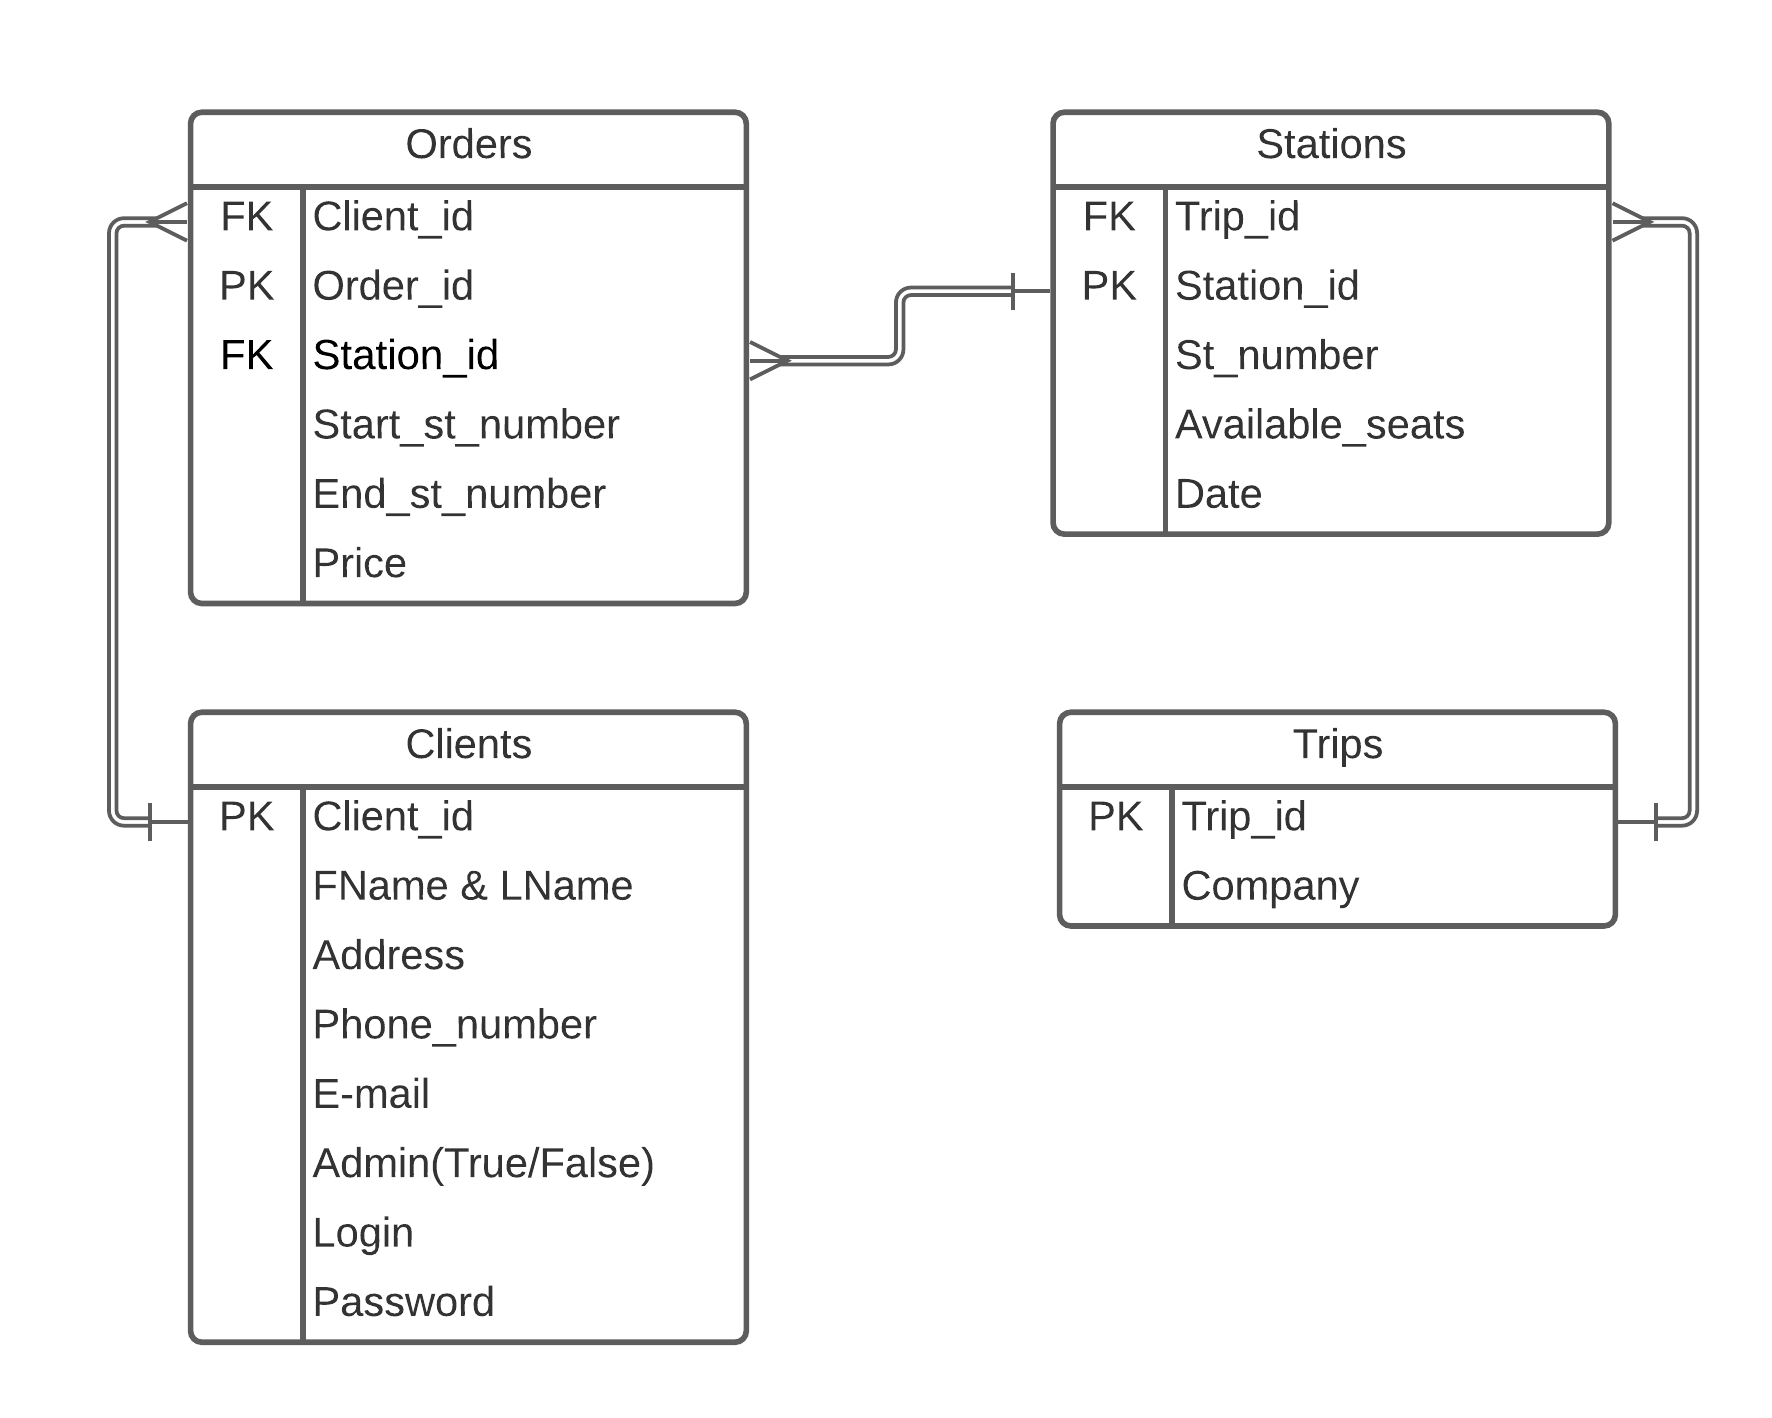
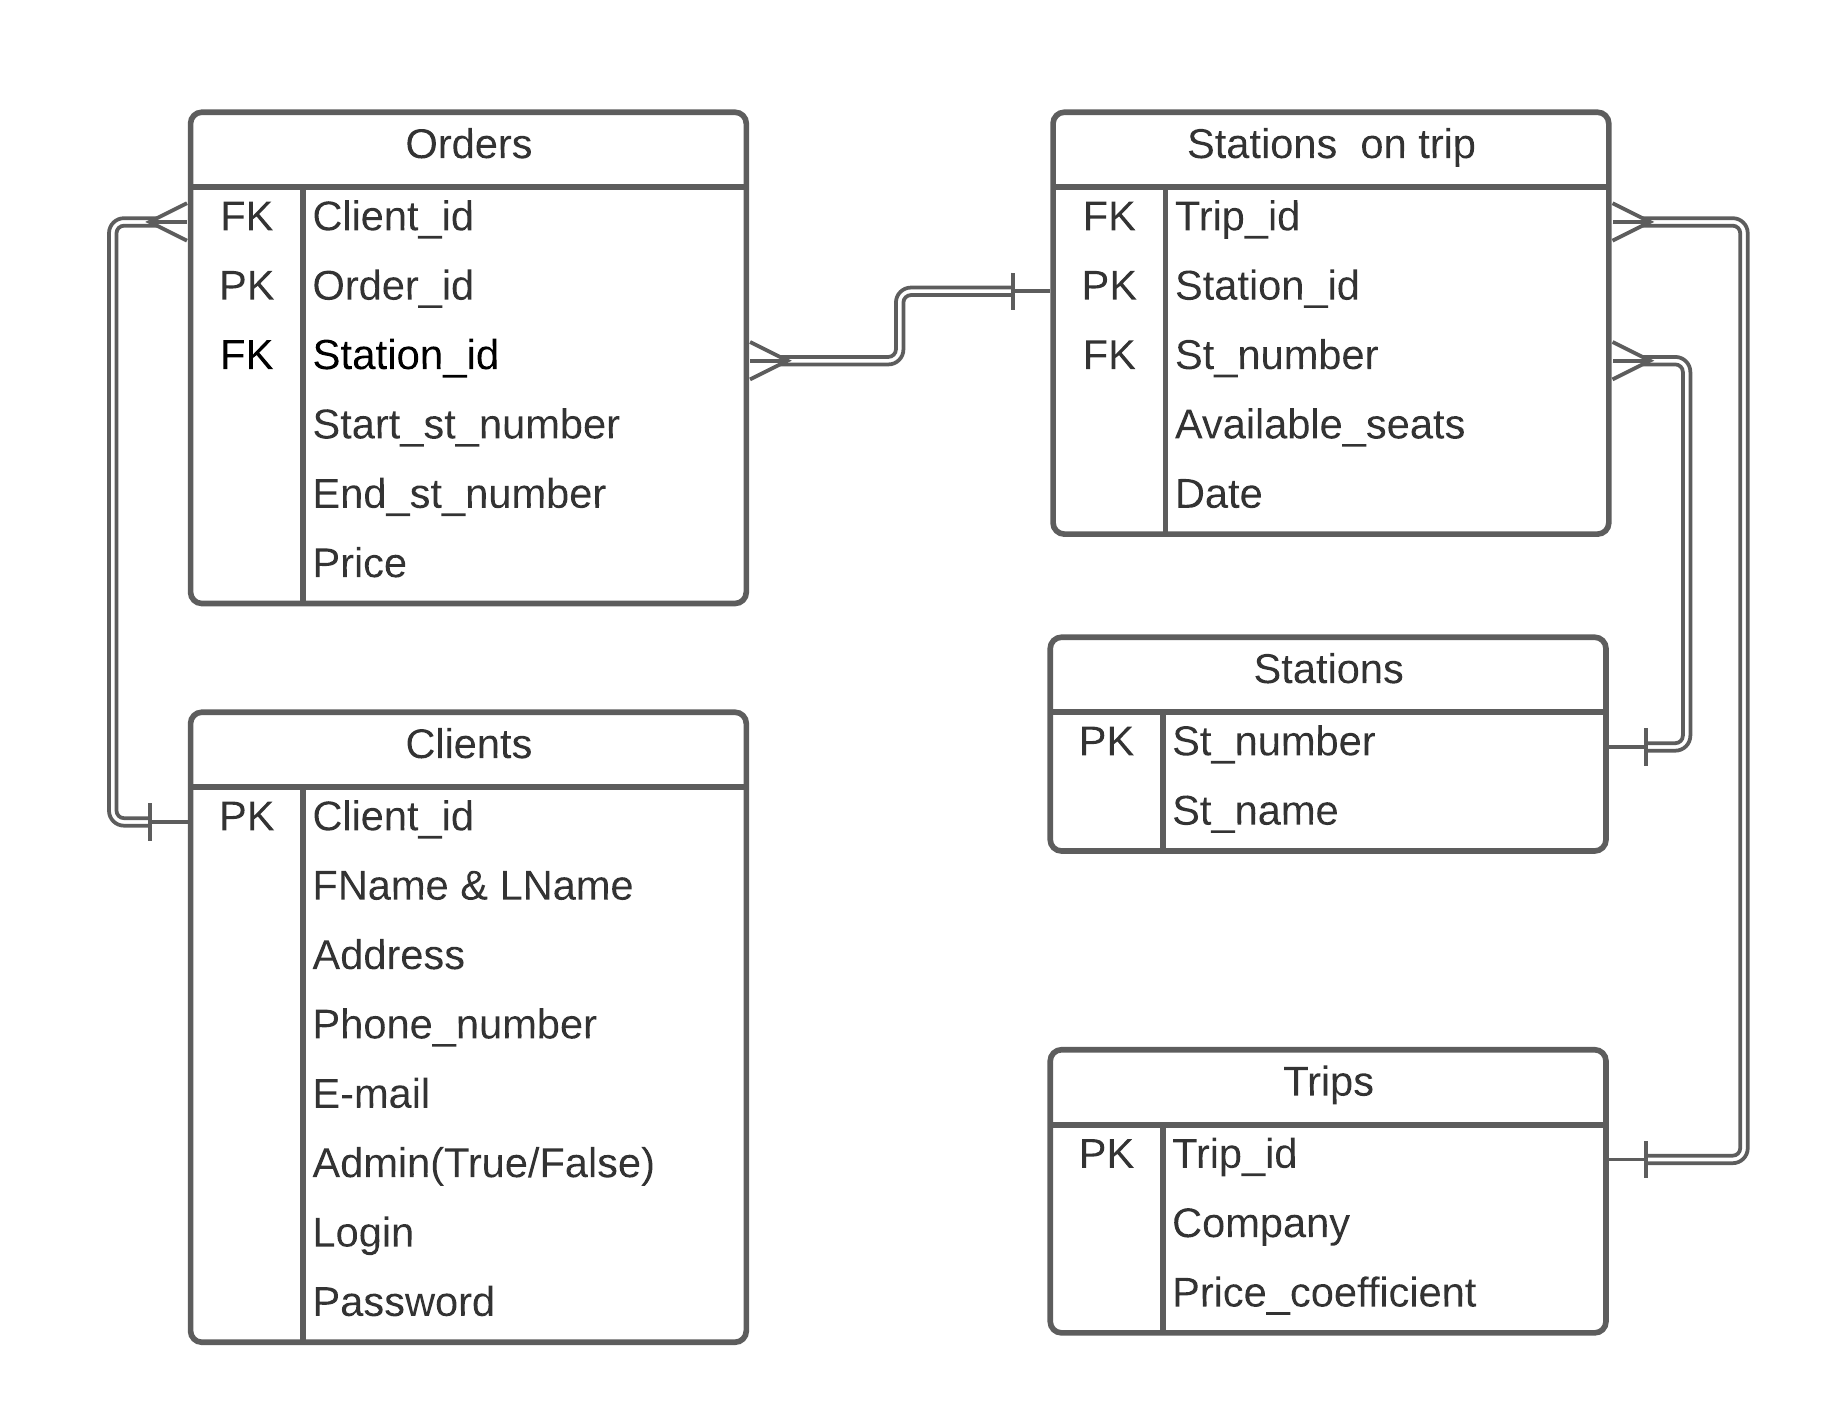
Added DB description

diff --git a/README.md b/README.md
@@ -88,7 +88,8 @@ CMC MSU Web-technology practical work
   - "Главная": кнопка "Администрирование" -> Страница "Клиенты": выбор клиента, кнопка "Информация о клиенте" -> "Информация о клинете": Тут история заказов
 - Получение списка клиентов, ехавших определенным рейсом
   - "Главная": кнопка "Администрирование" -> Страница "Рейсы": выбор рейса -> "Информация о рейсе"
-- Получение списка рейсов по датам, направлениям и промежуточным остановкам, информации о ценах билетов и наличии свободных мест
+- П
+олучение списка рейсов по датам, направлениям и промежуточным остановкам, информации о ценах билетов и наличии свободных мест
   - См. сценарий "Заказ билета"
 - Добавление и удаление рейса, чтение и редактирование данных о нем
   - "Главная": кнопка "Администрирование" -> Страница "Рейсы": выбор рейса -> "Информация о рейсе": редактирование
@@ -98,3 +99,37 @@ CMC MSU Web-technology practical work
 ## БД
 
 ![Alt text](docs/Diag.png)
+
+## Описание БД
+
+### Таблица Clients
+---
+- client\_id - первичный ключ
+- admin - является ли клиент также администратором
+
+### Таблица Orders
+---
+- client\_id - внешний ключ
+- order\_id -  первичныйключ
+- station\_id - внешний ключ
+- start\_st\_number
+- end\_st\_number
+- price - Стоимость поездки, расчитываемая по формуле для простоты: (End\_st\_number- Start\_st\_number) * standart\_price * price\_cofficient
+
+### Таблица Stations on trip
+---
+- trip\_id - внешний ключ
+- station\_id -  первичныйключ
+- st\_number - внешний ключ
+- availible\_seats - кол-во свободных мест на данном рейсе на данной станции.
+
+### Таблица Stations
+---
+- st\_number - первичный ключ
+- st\_name - название станции
+
+### Таблица Trips 
+---
+- trip\_id -  первичныйключ
+- company - название компании
+- price\_coffecient - наценка компании за каждую остановку
